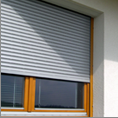
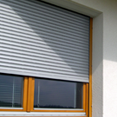
Navbar.

diff --git a/index.html b/index.html
@@ -22,11 +22,6 @@
                         <div class="submenu-img-container">
                             <img src="images/drop1.png" class="submenu-item-img">
                         </div>
-                        <div class="submenu-img-hover">
-                            <span class="submenu-img-hover-title">
-                                <span>Rolety</span>
-                            </span>
-                        </div>
                         <span class="submenu-item-img-title">Rolety</span>
                     </li>
                     <li class="submenu-item">

diff --git a/styles/style.css b/styles/style.css
@@ -99,6 +99,17 @@ body {
 }
 .submenu-img-container {
     position: relative;
+    width:120px;
+    height: 120px;
+}
+.submenu-img-container:hover:after{
+    content: '';
+    position:absolute;
+    width: 100%;
+    height: 100%;
+    top:0;
+    left: 0;
+    background: rgba(0,0,0,0.4);
 }
 .submenu-img-hover-title{
     display: block;
